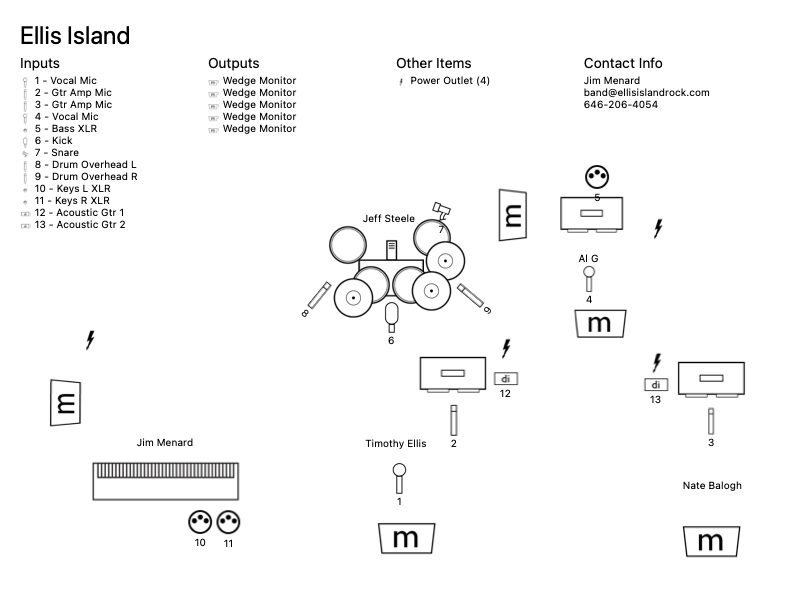
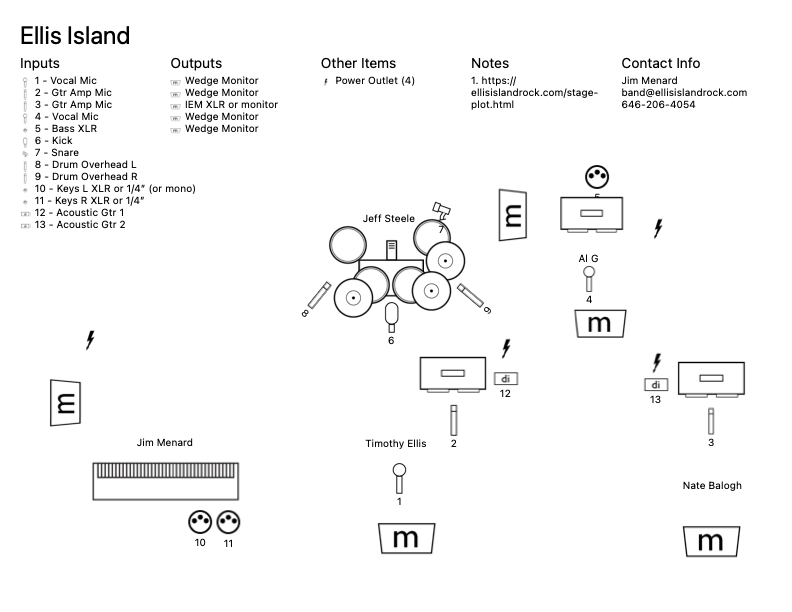
update

diff --git a/stage-plot.md b/stage-plot.md
@@ -20,13 +20,14 @@ If you have any questions you can contact us at the email address below.
   - Stage left in front of bass amp for bass player
 - 2 mics for guitar amps
 - Mono XLR direct out for bass amp
-- Stereo XLR out for keys (keys have a submixer with stereo XLR out)
+- Stereo (or mono) XLR (or 1/4") out for keys (keys have a submixer with
+  stereo/mono XLR or 1/4" out)
 - Drum mics (your discretion: kick with front port and blanket inside,
   snare, HH, 3 toms, 2 rotos, multiple cymbals)
 - 2 DIs for acoustic guitars (won't always need both for every gig)
-- 5 monitors, one for each band member:
-  - 2 in front (center and stage left)
+- 5 monitor feeds, 4 or 5 monitor wedges, one for each band member:
+  - 2 in front (center and stage left for lead vocals and rhythm guitar)
   - 1 for bass
   - 1 for drums
-  - 1 for keys
+  - 1 for keys OR XLR male monitor feed for IEMs (preferred)
 - AC: at least four 110V outlets
